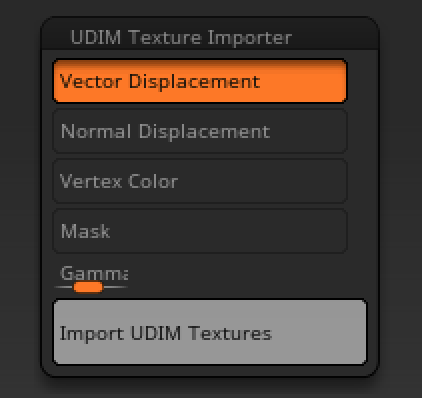
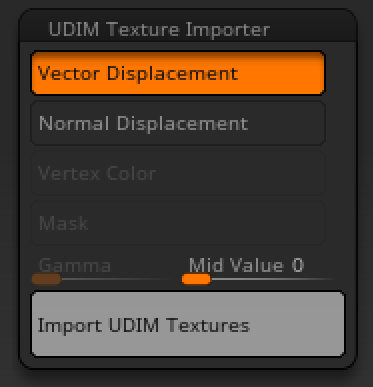
Update readme

Changed region(s): [[0.0295, 0.0, 0.9732, 0.9612], [0.4718, 0.6512, 0.8552, 0.7442], [0.1475, 0.5581, 0.2654, 0.6202]]

diff --git a/README.md b/README.md
@@ -4,14 +4,13 @@ https://github.com/minoue/UDIMTextureImporter/assets/7100231/fbe57663-92da-47d2-
 
 ## Notes:
 
-**This plugin may still have bugs. Be sure to make a new save, create a new layer, and run it on that.**
-**If you get an error or ZBrush clashes, try different image format.**
+**This plugin may still have bugs. Be sure to sve your tool first.**
 
 ## Getting Started
 
 ### Prerequisties
 
-In addition to being a UDIM naming convention (eg. filename.1001.tif), textures must meet the following requrements.
+In addition to being a UDIM naming convention (eg. **filename.1001.tif**), **textures must meet the following requrements**.
 
 For MacOS, you must install libtiff first. `brew install libtiff` 
 
@@ -25,20 +24,26 @@ For MacOS, you must install libtiff first. `brew install libtiff`
 * **Absolute tangent (Mudbox)**
 
 #### Normal Displacement
-* 32bit tiff/exr or 16bit float-point exr
-* Mid point 0.0
+* 32bit or 16bit float-point EXR
+* 8/16/32 bit tiff
+* Mid point can be changed between 0-1
 
-#### Color
-* 8bit tiff/jpg/png or 16bit tiff
+#### ~~Color~~
+* ~~8bit tiff/jpg/png or 16bit tiff~~
 
-#### Mask
-* 8bit or 16bit black/white tiff
+#### ~~Mask~~
+* ~~8bit or 16bit black/white tiff~~
+
+#### Supported tiff compression
+* Deflate
+* None
+* LZW
 
 ### Installation
 
 #### Windows10 & ZBrush2022
 1. Go to [release page](https://github.com/minoue/UDIMTextureImporter/releases), download the latest and extract it.
-2. Move tiff.dll to the same directory as ZBrush.exe. (eg. `C:\Program Files\Pixologic\ZBrush 2022\tiff.dll`) 
+2. Move `tiff.dll`, `zlib.dll`, and `libdeflate.dll` to the same directory as ZBrush.exe. (eg. `C:\Program Files\Pixologic\ZBrush 2022\tiff.dll`) 
 3. Move `UDIMTextureImporter_2022.zsc` to `ZPlugs64` folder.
 4. Move `UDIMTextureImporterData` to `ZPlugs64` folder.
 
@@ -53,24 +58,22 @@ ZStartup/
 ```
 
 #### MacOS & ZBrush2022
-coming soon
+Not supported yet.
 
 ## Usage
 Go to `ZPlugin` -> `UDIM Texture Importer`, and select the texture type you want to import.
 
 <img src="./img/menu.png" alt= “” width="200">
 
-*If your color maps are linear and trying to import them as polypaint, set the gamma slider to 2.2*
-
 ## Known issues
-Tiff images of zip compression type may not work properly for mask import on Windows. In that case, use LZW compression Tiff or use another format such as PNG.
+Not all compression types of tiff are supported. Use LZW, None, and Deflate.
 
 ## Roadmap
 - [x] Vector Displacement
 - [x] Normal Displacement
-- [x] Color to polypaint
-- [x] B/W mask
-- [ ] Bump
+- [ ] Color to polypaint
+- [ ] B/W mask
+- [x] Bump
 - [ ] Additional image formats
 
 ## Build Instruction
@@ -79,6 +82,8 @@ Tiff images of zip compression type may not work properly for mask import on Win
 
 * C++17
 * [libtiff](http://www.libtiff.org)
+* [zlib](https://www.zlib.net/) (optional for libtiff)
+* [libdeflate](https://github.com/ebiggers/libdeflate) (optional for libtiff)
 
 For MacOS, you can use homebrew: `brew install libtiff`
 
@@ -107,13 +112,11 @@ cmake --build . --config Release --target install
 ## Credits
 This software uses the following libraries.
 
-[tinyexr](https://github.com/syoyo/tinyexr) / The 3-Clause BSD License / Shoyo Fujita
-
-[libtiff](http://www.libtiff.org) / LibTIFF license / Copyright © 1988-1997 Sam Leffler / Copyright © 1991-1997 Silicon Graphics, Inc.  
-
-[FromZ](https://github.com/n-taka/FromZ) / GPLv3  / © Kazutaka Nakashima   
-
-[Eigen](https://eigen.tuxfamily.org/) / MPL2 
-
-[stb_image](https://github.com/nothings/stb) / [MIT License](https://github.com/nothings/stb/blob/master/LICENSE) / © 2017 Sean Barrett
+[tinyexr](https://github.com/syoyo/tinyexr) / The 3-Clause BSD License / Shoyo Fujita <br>
+[libtiff](http://www.libtiff.org) / LibTIFF license / Copyright © 1988-1997 Sam Leffler / Copyright © 1991-1997 Silicon Graphics, Inc. <br>
+[zlib](https://www.zlib.net) / zlib License / © Jean-loup Gailly, Mark Adler <br>
+[libdeflate](https://github.com/ebiggers/libdeflate) / MIT License / ©ebiggers <br>
+[FromZ](https://github.com/n-taka/FromZ) / GPLv3  / © Kazutaka Nakashima <br>
+[Eigen](https://eigen.tuxfamily.org/) / MPL2 <br>
+[stb_image](https://github.com/nothings/stb) / [MIT License](https://github.com/nothings/stb/blob/master/LICENSE) / © 2017 Sean Barrett <br>
 
